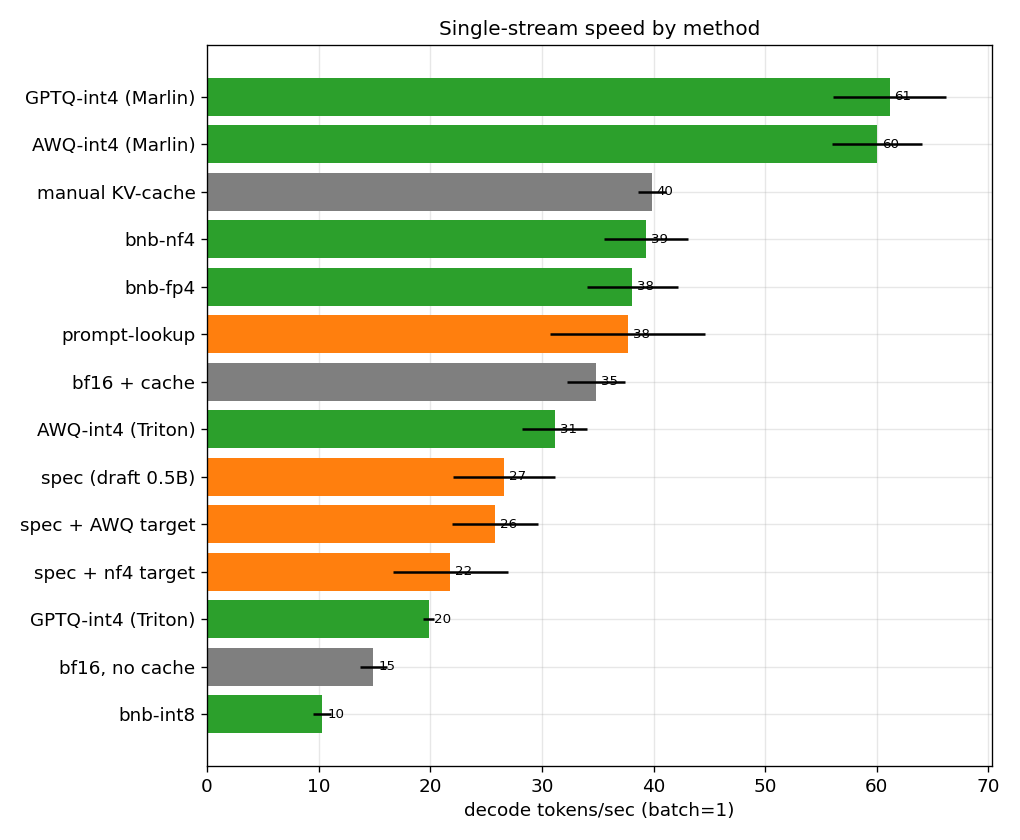
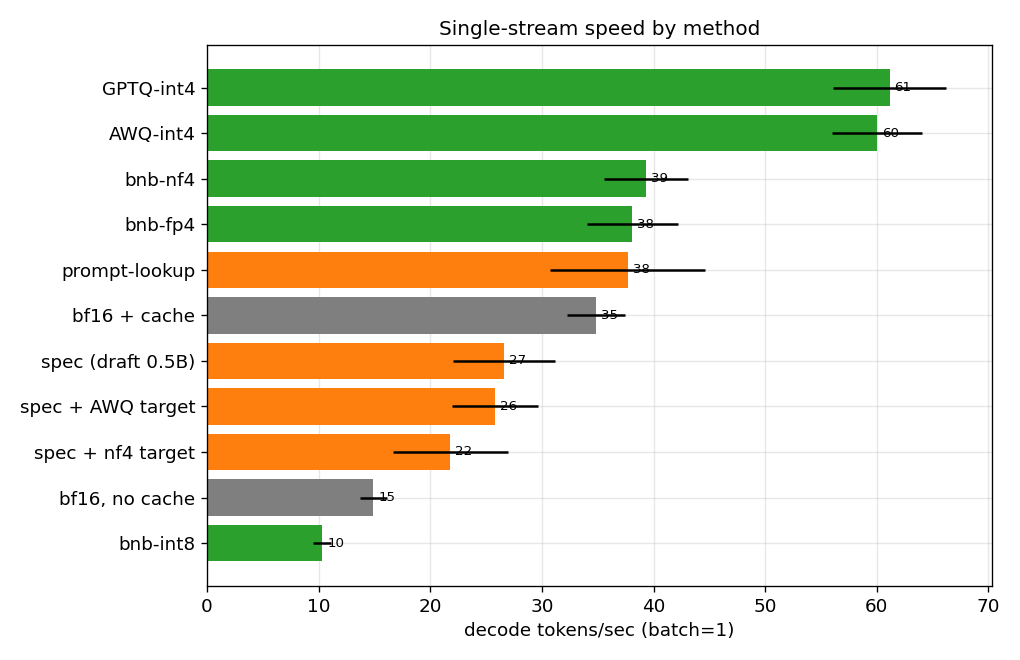
Figures: Marlin-only 4-bit, split quant into speed/memory, add quality figure
Refine the per-method figures for the method-by-method story:

- plotstyle: HIDE_CONFIGS = Triton 4-bit (quant_awq/quant_gptq-int4) + manual_kv.
  The Triton variants are represented only by their Marlin counterparts
  (relabeled "AWQ-int4"/"GPTQ-int4"); manual_kv is dropped from the
  method-comparison figures.
- plots.py: QUANT_CONFIGS lists bf16 + bnb-int8/fp4/nf4 + AWQ/GPTQ Marlin.
  quant.png is now 2-panel (speed + memory); new fig_quality (quality.png)
  shows perplexity + MMLU + GSM8K across formats (GSM8K exposes the GPTQ-int4
  drop that perplexity hides). fig_methods excludes HIDE_CONFIGS.
- plots_methods.py: vs_baseline/methods exclude HIDE_CONFIGS (no Triton, no
  manual KV-cache loop).
- Regenerated quant/pareto/methods/vs_baseline for 7B and 1.5B + quality (7B).

Changed region(s): [[0.0, 0.0303, 1.0, 0.9697], [0.1824, 0.9091, 0.2127, 0.9394]]

diff --git a/scripts/plots.py b/scripts/plots.py
@@ -21,20 +21,18 @@ matplotlib.use("Agg")
 import matplotlib.pyplot as plt  # noqa: E402
 
 from aggregate import load_results, speed_format  # noqa: E402
-from plotstyle import FORMAT_LABEL, label, family_color, annotate_v, annotate_h  # noqa: E402
+from plotstyle import FORMAT_LABEL, label, family_color, annotate_v, annotate_h, HIDE_CONFIGS  # noqa: E402
 
 # bf16 baseline + each quant format for the format-comparison figures.
-# 4-bit AWQ/GPTQ appear twice — Triton and Marlin kernels — so the figure shows
-# the kernel-dependence of the 4-bit speed-up directly, not just memory savings.
+# 4-bit AWQ/GPTQ use the optimized Marlin kernels; the slower Triton variants
+# are left out of the figures (Marlin is the 4-bit result we present).
 QUANT_CONFIGS = [
     ("baseline_cache", "bf16"),
     ("quant_int8", "bnb-int8"),
     ("quant_fp4", "bnb-fp4"),
     ("quant_nf4", "bnb-nf4"),
-    ("quant_awq", "AWQ (Triton)"),
-    ("quant_awq_marlin", "AWQ (Marlin)"),
-    ("quant_gptq-int4", "GPTQ4 (Triton)"),
-    ("quant_gptq-int4_marlin", "GPTQ4 (Marlin)"),
+    ("quant_awq_marlin", "AWQ-int4"),
+    ("quant_gptq-int4_marlin", "GPTQ-int4"),
 ]
 
 
@@ -62,12 +60,14 @@ def to_rows(speed, quality):
             "vram": vram.get("max"), "block": blk.get("mean"),
             "ppl": q["perplexity"]["perplexity"] if q else None,
             "mmlu": q["mmlu"]["acc"] if q else None,
+            "gsm8k": q["gsm8k"]["exact_match"] if q else None,
         })
     return rows
 
 
 def fig_methods(rows, out):
-    r = [x for x in rows if x["batch"] == 1 and not x["config"].startswith("batch_") and x["tps"]]
+    r = [x for x in rows if x["batch"] == 1 and not x["config"].startswith("batch_")
+         and x["config"] not in HIDE_CONFIGS and x["tps"]]
     if len(r) < 2:
         return None
     r.sort(key=lambda x: x["tps"])
@@ -104,28 +104,56 @@ def fig_quant(rows, out):
     if len(r) < 2:
         return None
     labels = [x["qlabel"] for x in r]
-    fig, axes = plt.subplots(1, 3, figsize=(13, 4))
+    # speed + memory only; quality (ppl / MMLU / GSM8K) lives in fig_quality
+    fig, axes = plt.subplots(1, 2, figsize=(9.5, 4))
     b0 = axes[0].bar(labels, [x["tps"] or 0 for x in r], color="steelblue")
     annotate_v(axes[0], b0, "{:.0f}")
-    axes[0].set_ylabel("decode tok/s"); axes[0].set_title("Speed")
+    axes[0].set_ylabel("decode tok/s"); axes[0].set_title("Speed (higher = better)")
     b1 = axes[1].bar(labels, [x["vram"] or 0 for x in r], color="seagreen")
     annotate_v(axes[1], b1, "{:.1f}")
-    axes[1].set_ylabel("peak VRAM (GB)"); axes[1].set_title("Memory")
-    ppl = [x["ppl"] for x in r]
-    if any(p is not None for p in ppl):
-        b2 = axes[2].bar(labels, [p or 0 for p in ppl],
-                         color=["indianred" if p is not None else "lightgray" for p in ppl])
-        for bar, p in zip(b2, ppl):
-            axes[2].annotate("n/a" if p is None else f"{p:.2f}",
-                             (bar.get_x() + bar.get_width() / 2, bar.get_height()),
-                             textcoords="offset points", xytext=(0, 2),
-                             ha="center", va="bottom", fontsize=8)
-        axes[2].set_ylabel("WikiText-2 perplexity"); axes[2].set_title("Quality (lower=better)")
-    else:
-        axes[2].set_visible(False)
+    axes[1].set_ylabel("peak VRAM (GB)"); axes[1].set_title("Memory (lower = better)")
     for ax in axes:
         ax.tick_params(axis="x", rotation=45)
-    fig.suptitle("Quantization: speed / memory / quality by format")
+    fig.suptitle("Quantization: speed and memory by format")
+    fig.tight_layout(); fig.savefig(out, dpi=120); plt.close(fig)
+    return out
+
+
+def fig_quality(rows, out):
+    """Quality across formats on three axes: WikiText-2 perplexity (lower=better)
+    plus MMLU and GSM8K accuracy (higher=better). Perplexity alone hides the real
+    impact — e.g. GPTQ-int4 drops GSM8K while its perplexity barely moves."""
+    r = _quant_rows(rows)
+    r = [x for x in r if any(x[k] is not None for k in ("ppl", "mmlu", "gsm8k"))]
+    if len(r) < 2:
+        return None
+    labels = [x["qlabel"] for x in r]
+    fig, axes = plt.subplots(1, 3, figsize=(13, 4))
+
+    ppl = [x["ppl"] for x in r]
+    b0 = axes[0].bar(labels, [p or 0 for p in ppl], color="indianred")
+    annotate_v(axes[0], b0, "{:.2f}")
+    axes[0].set_ylabel("WikiText-2 perplexity")
+    axes[0].set_title("Perplexity (lower = better)")
+    if any(ppl):
+        axes[0].set_ylim(0, max(p for p in ppl if p) * 1.2)
+
+    for ax, key, color, title in [
+        (axes[1], "mmlu", "steelblue", "MMLU accuracy (higher = better)"),
+        (axes[2], "gsm8k", "seagreen", "GSM8K accuracy (higher = better)"),
+    ]:
+        vals = [(x[key] * 100 if x[key] is not None else 0) for x in r]
+        bars = ax.bar(labels, vals, color=color)
+        annotate_v(ax, bars, "{:.1f}")
+        ax.set_ylabel("accuracy, %")
+        ax.set_title(title)
+        if vals and vals[0]:  # dashed line at the bf16 baseline (first config)
+            ax.axhline(vals[0], color="k", ls="--", lw=1)
+        ax.set_ylim(0, (max(vals) if any(vals) else 1) * 1.18)
+
+    for ax in axes:
+        ax.tick_params(axis="x", rotation=45)
+    fig.suptitle("Quantization quality: perplexity, MMLU, GSM8K by format")
     fig.tight_layout(); fig.savefig(out, dpi=120); plt.close(fig)
     return out
 
@@ -198,6 +226,7 @@ def main():
     figures = {
         "methods.png": fig_methods,
         "quant.png": fig_quant,
+        "quality.png": fig_quality,
         "batch.png": fig_batch,
         "pareto.png": fig_pareto,
     }

diff --git a/scripts/plotstyle.py b/scripts/plotstyle.py
@@ -25,8 +25,8 @@ LABEL = {
     "quant_fp4": "bnb-fp4",
     "quant_awq": "AWQ-int4 (Triton)",
     "quant_gptq-int4": "GPTQ-int4 (Triton)",
-    "quant_awq_marlin": "AWQ-int4 (Marlin)",
-    "quant_gptq-int4_marlin": "GPTQ-int4 (Marlin)",
+    "quant_awq_marlin": "AWQ-int4",
+    "quant_gptq-int4_marlin": "GPTQ-int4",
     "spec": "spec (draft 0.5B)",
     "spec_nf4": "spec + nf4 target",
     "spec_awq": "spec + AWQ target",
@@ -39,6 +39,15 @@ FORMAT_LABEL = {
     "int8": "bnb-int8", "nf4": "bnb-nf4", "fp4": "bnb-fp4",
     "awq": "AWQ-int4", "gptq-int4": "GPTQ-int4", "gptq-int8": "GPTQ-int8",
 }
+
+# 4-bit configs on the generic Triton kernels — dropped from the figures in
+# favor of their Marlin variants (Marlin is the 4-bit result we present).
+TRITON_CONFIGS = {"quant_awq", "quant_gptq-int4"}
+
+# Configs hidden from the method-comparison figures (vs_baseline, methods):
+# the Triton 4-bit variants + the manual KV-cache loop (an implementation
+# detail dropped from the presentation narrative).
+HIDE_CONFIGS = TRITON_CONFIGS | {"manual_kv"}
 
 # method-family colors (consistent across figures)
 GRAY, GREEN, ORANGE, BLUE = "#7f7f7f", "#2ca02c", "#ff7f0e", "#1f77b4"

diff --git a/scripts/plots_methods.py b/scripts/plots_methods.py
@@ -22,7 +22,7 @@ matplotlib.use("Agg")
 import matplotlib.pyplot as plt  # noqa: E402
 
 from aggregate import load_results  # noqa: E402
-from plotstyle import label, family_color, annotate_v, annotate_h, GREEN, GRAY  # noqa: E402
+from plotstyle import label, family_color, annotate_v, annotate_h, GREEN, GRAY, HIDE_CONFIGS  # noqa: E402
 
 RED = "#d62728"
 
@@ -43,6 +43,8 @@ def single_stream(speed):
         gs = s.get("gen_settings", {})
         if gs.get("batch_size", 1) != 1 or s["kind"].startswith("batch_"):
             continue
+        if s["kind"] in HIDE_CONFIGS:
+            continue  # Marlin 4-bit only (not Triton); manual KV-cache dropped from deck
         tps = (s.get("tokens_per_sec") or {}).get("mean")
         if not tps:
             continue
